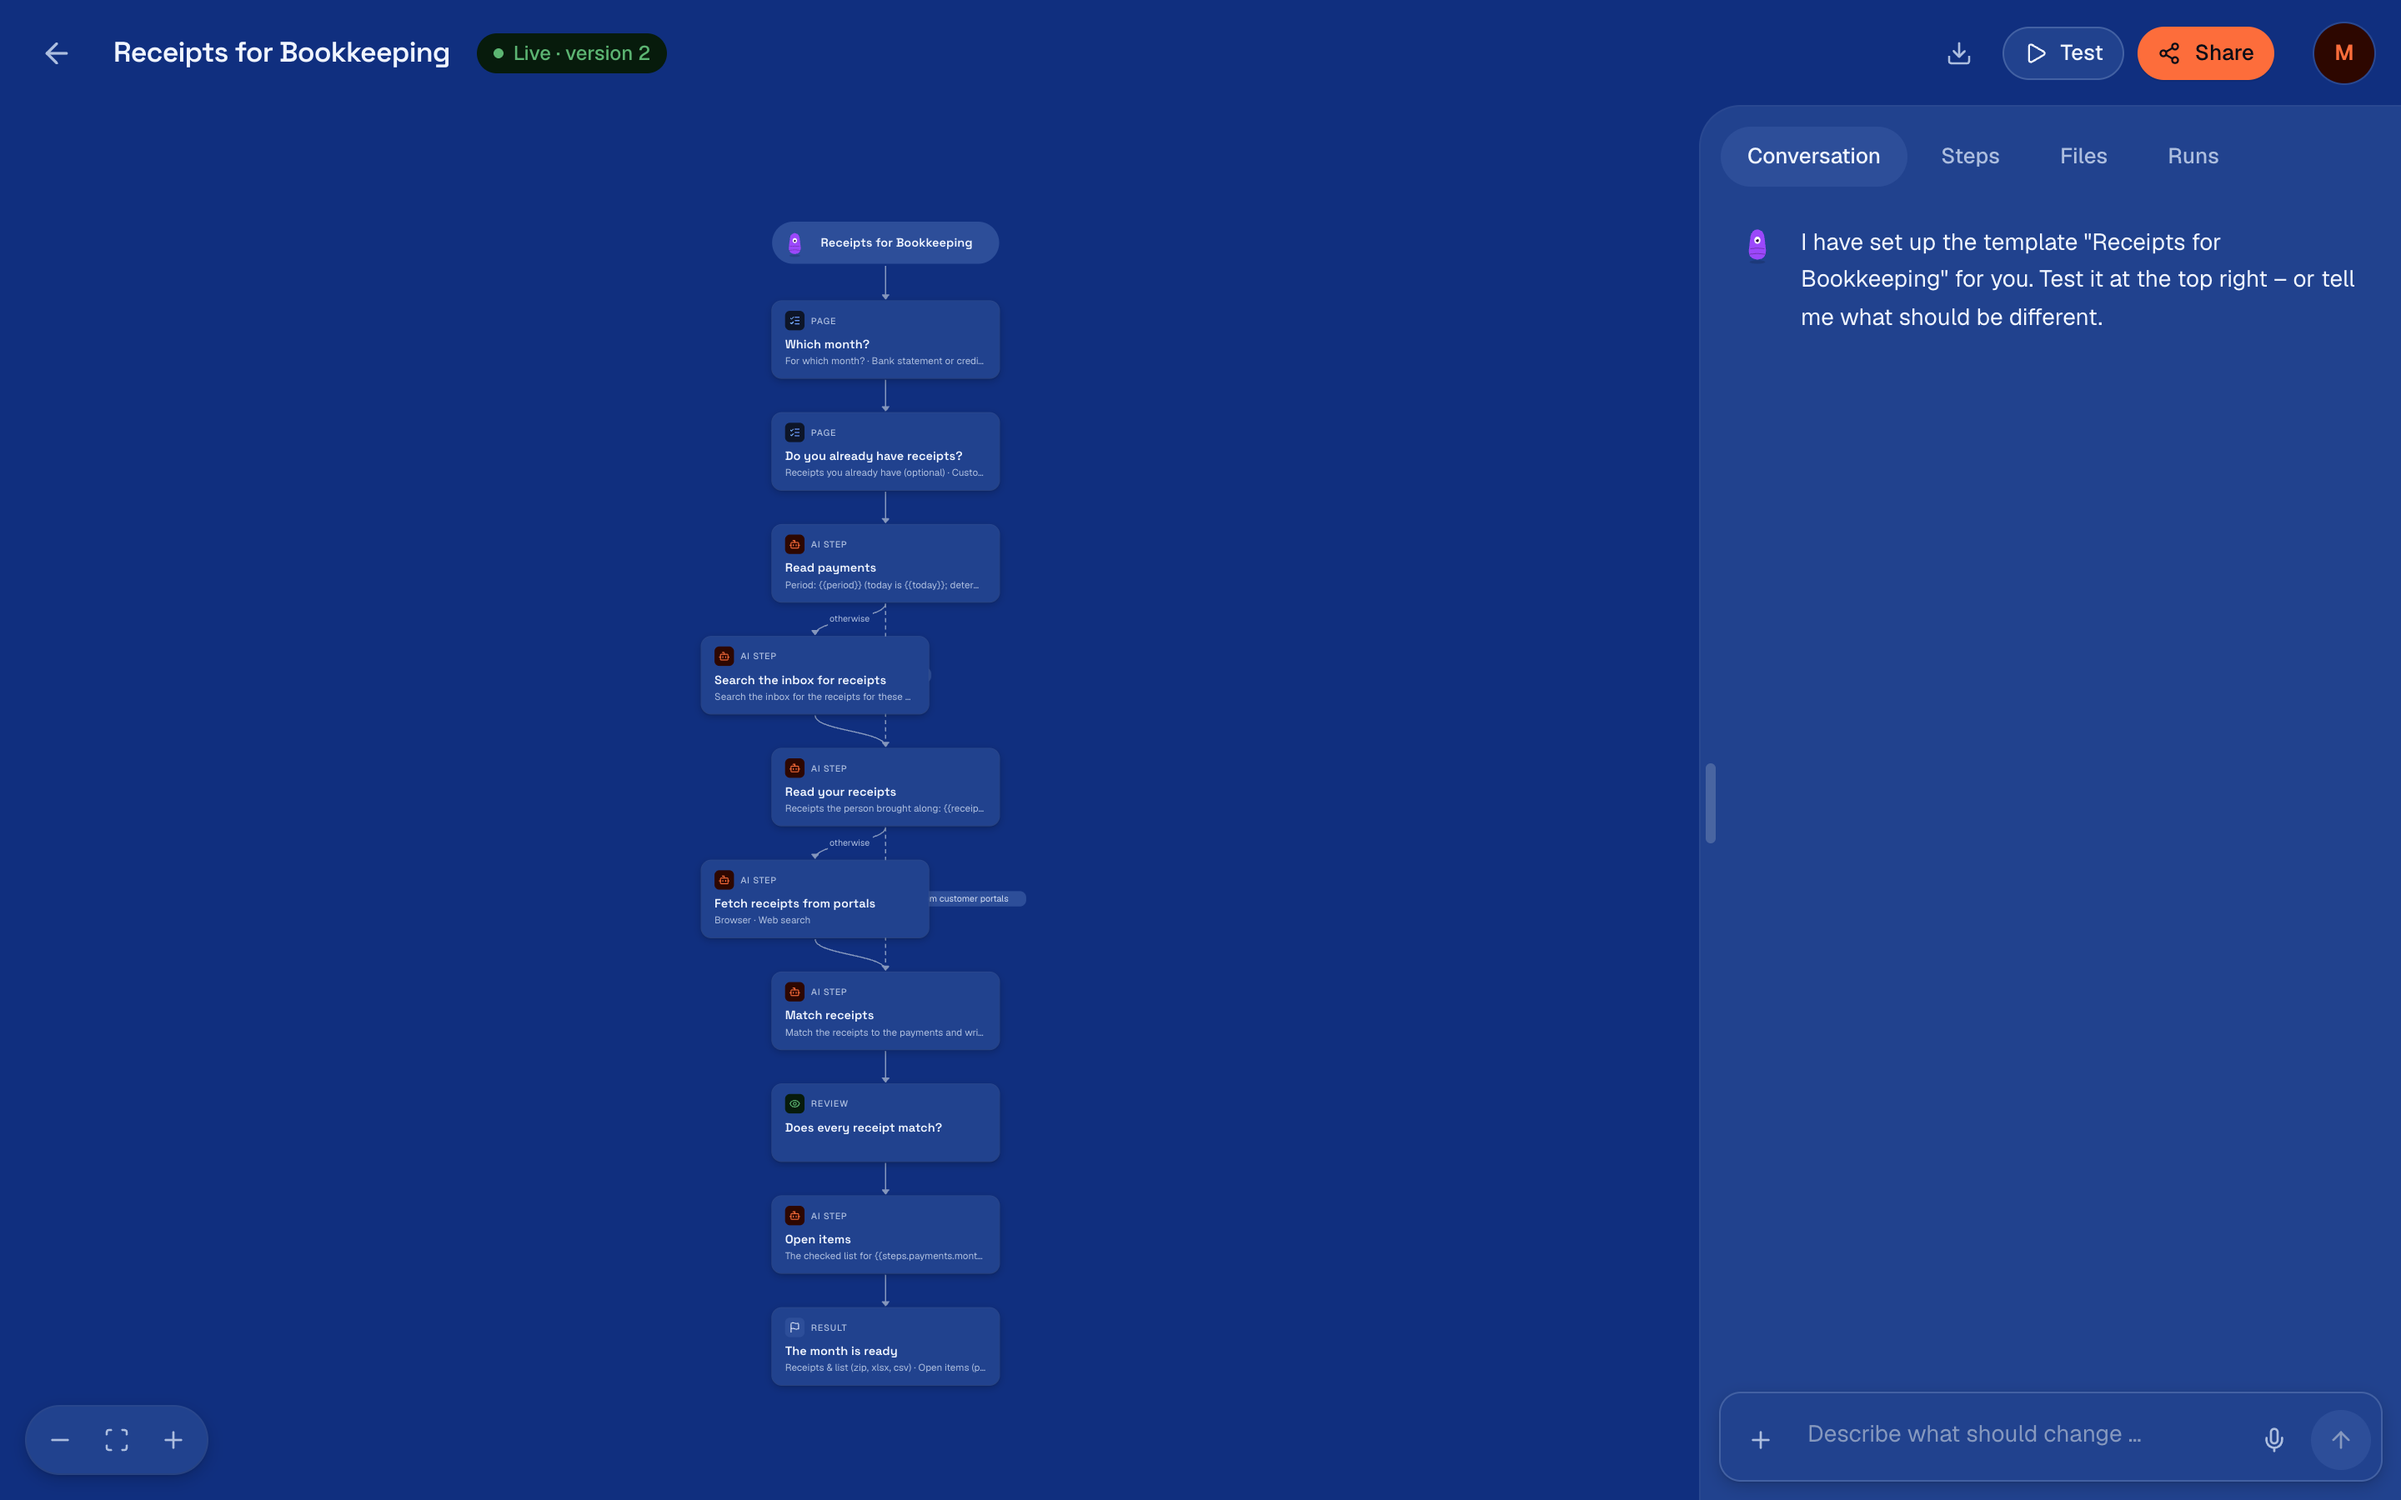
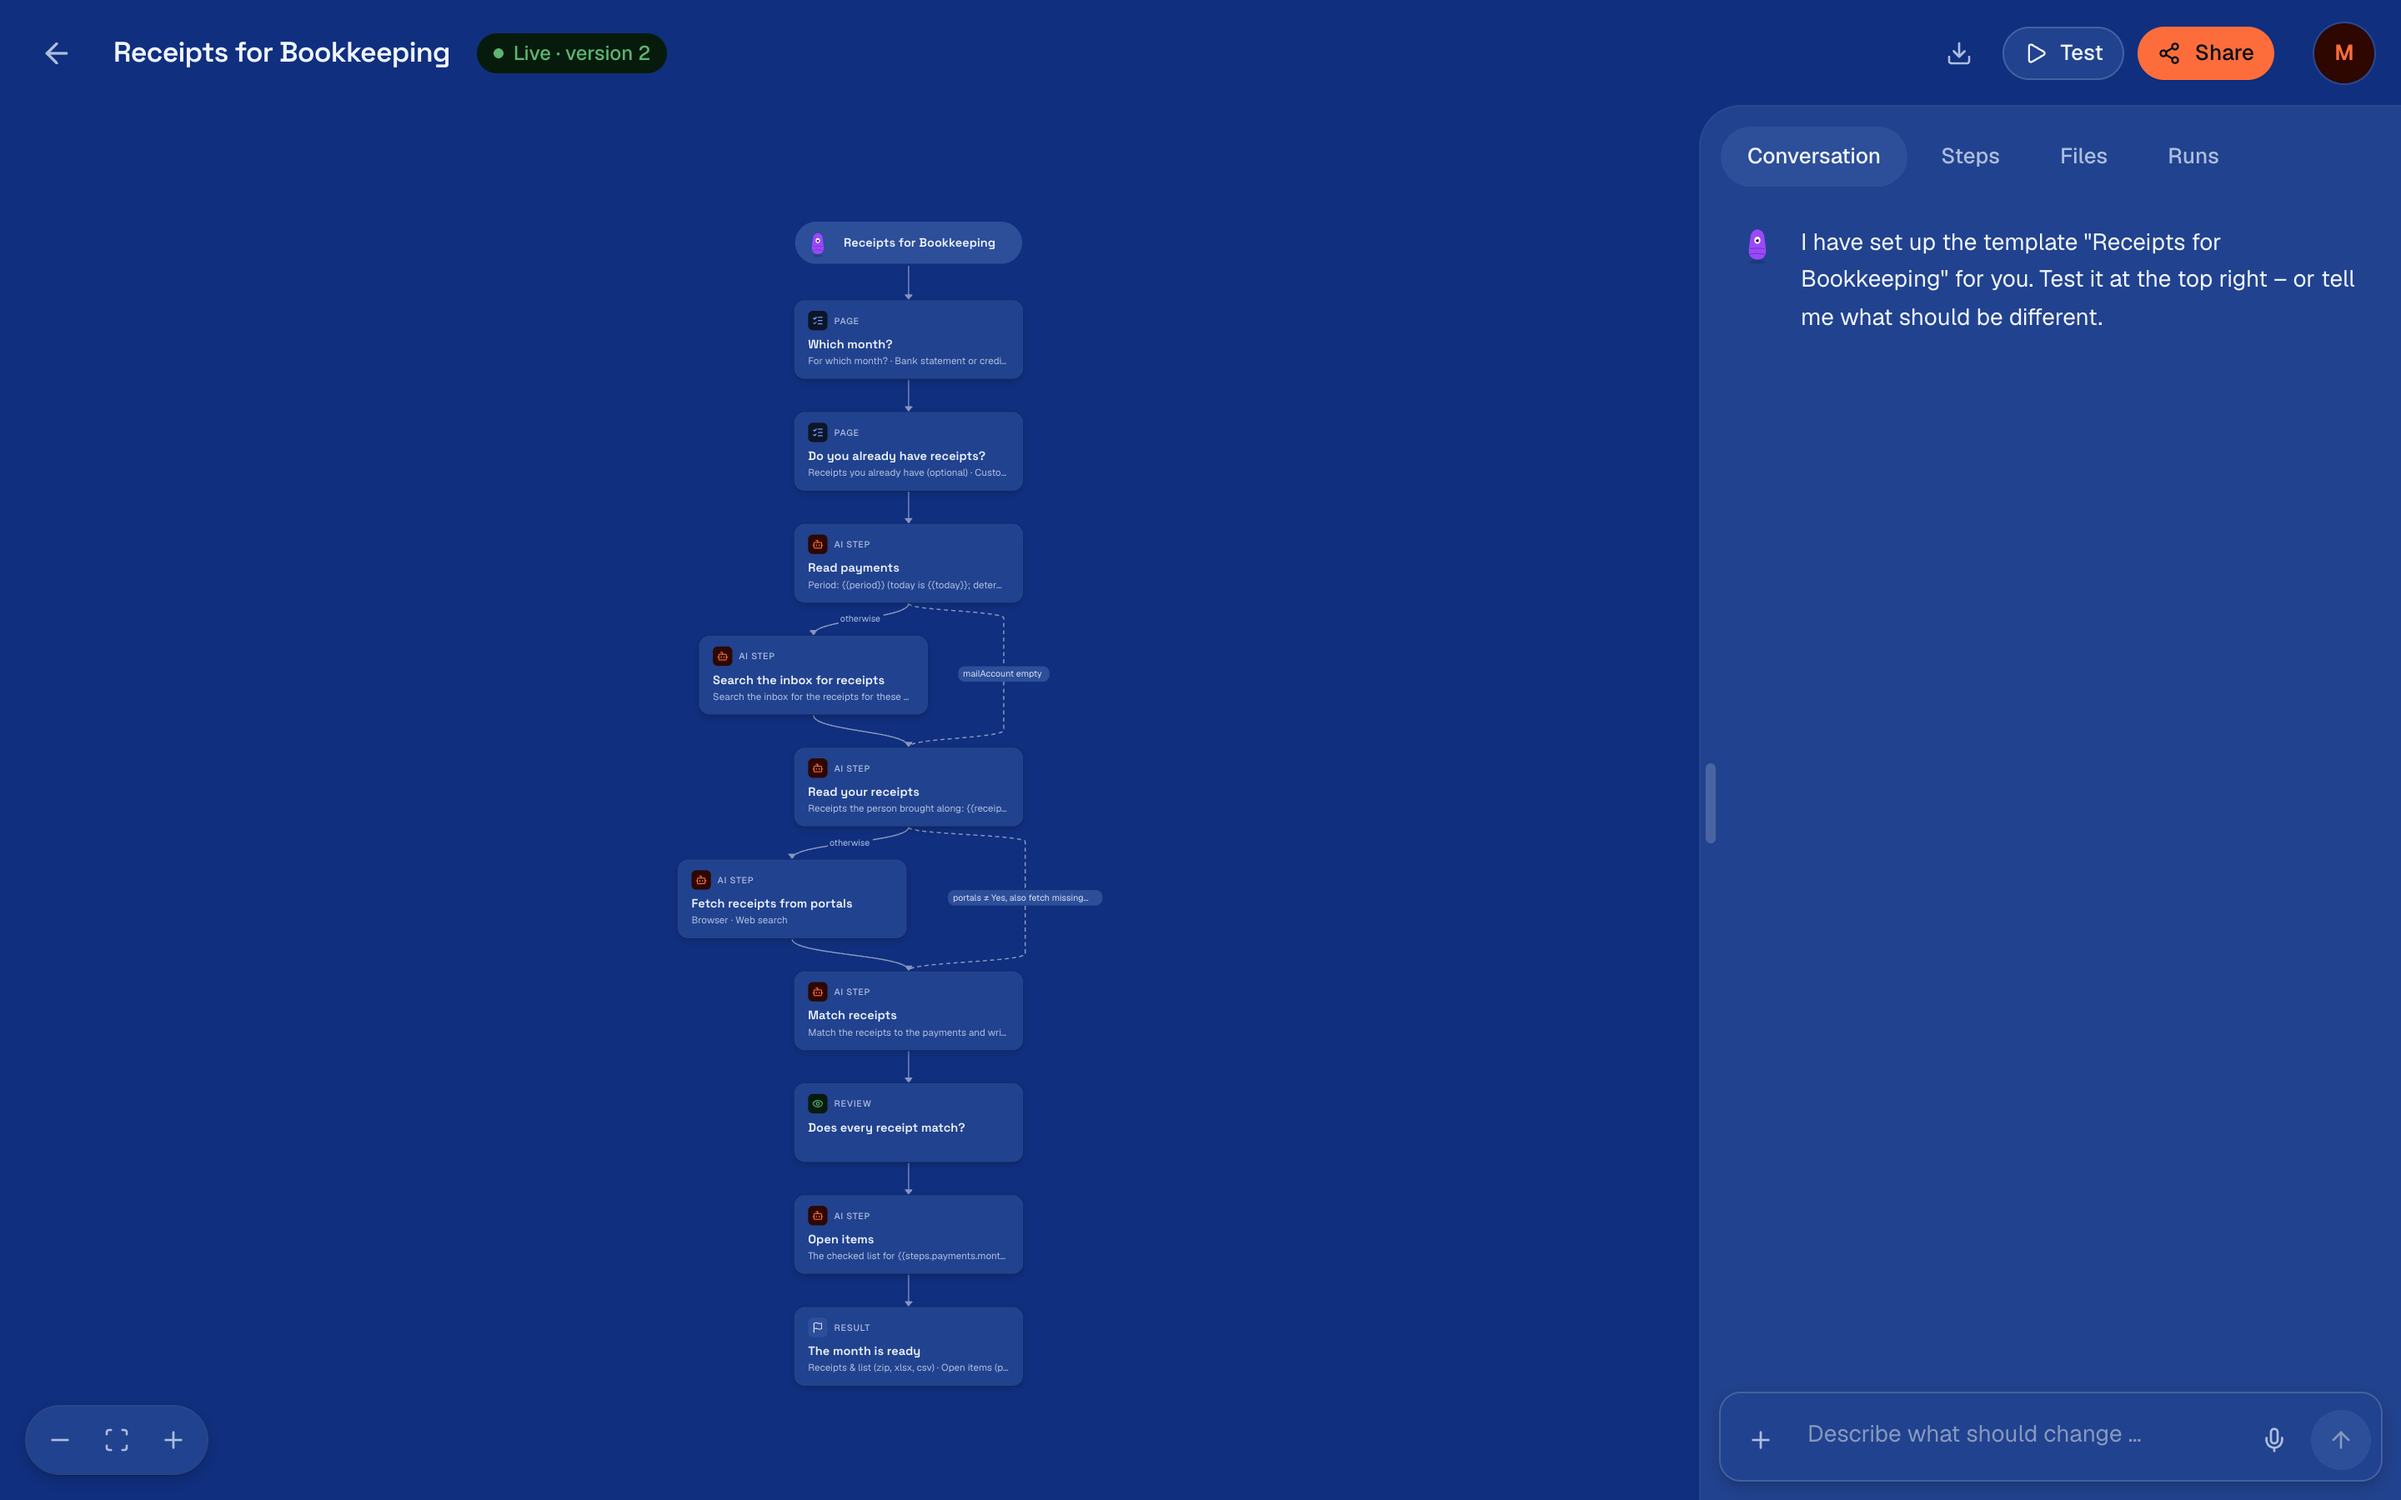
docs: the package is on npm as wizards, and the README's studio picture shows the branches with their conditions

diff --git a/docs/development.md b/docs/development.md
@@ -180,16 +180,16 @@ tag. To go back to an older commit: `git push --force origin <commit>:deploy/run
 
 What people install is the package `wizards`, built like an npm package: the built
 runtime, the built SPA, the plugin template and the `wizards` command, with the shared
-package inside it. It is not on npm yet: the tarball is attached to the GitHub release
-`v<version>`, and npm installs it from that address. It gets onto a machine through the
-installer, which keeps their data in `~/.engenty/wizards/data` (`ENGENTY_HOME` moves `~/.engenty`):
+package inside it. It is on npm as `wizards`, and the same tarball is attached to the GitHub
+release `v<version>`: the installer has npm install it from that address. It gets onto a machine
+through the installer, which keeps their data in `~/.engenty/wizards/data` (`ENGENTY_HOME` moves
+`~/.engenty`):
 
 | | Code | Node |
 |---|---|---|
 | `curl -fsSL https://engenty.ai/install.sh \| bash` | `~/.engenty/wizards/runtime` | its own, pinned, in `~/.engenty/wizards/tools` |
 
-Once the package is on npm (the repository variable `PUBLISH_NPM`, below), `npx wizards`
-is a second way: the code in npm's cache, on the person's own Node 24.11 or newer.
+`npx wizards` is a second way: the code in npm's cache, on the person's own Node 24.11 or newer.
 
 ```bash
 pnpm package                       # node scripts/npm-package.mjs → dist/npm/wizards-<version>.tgz
